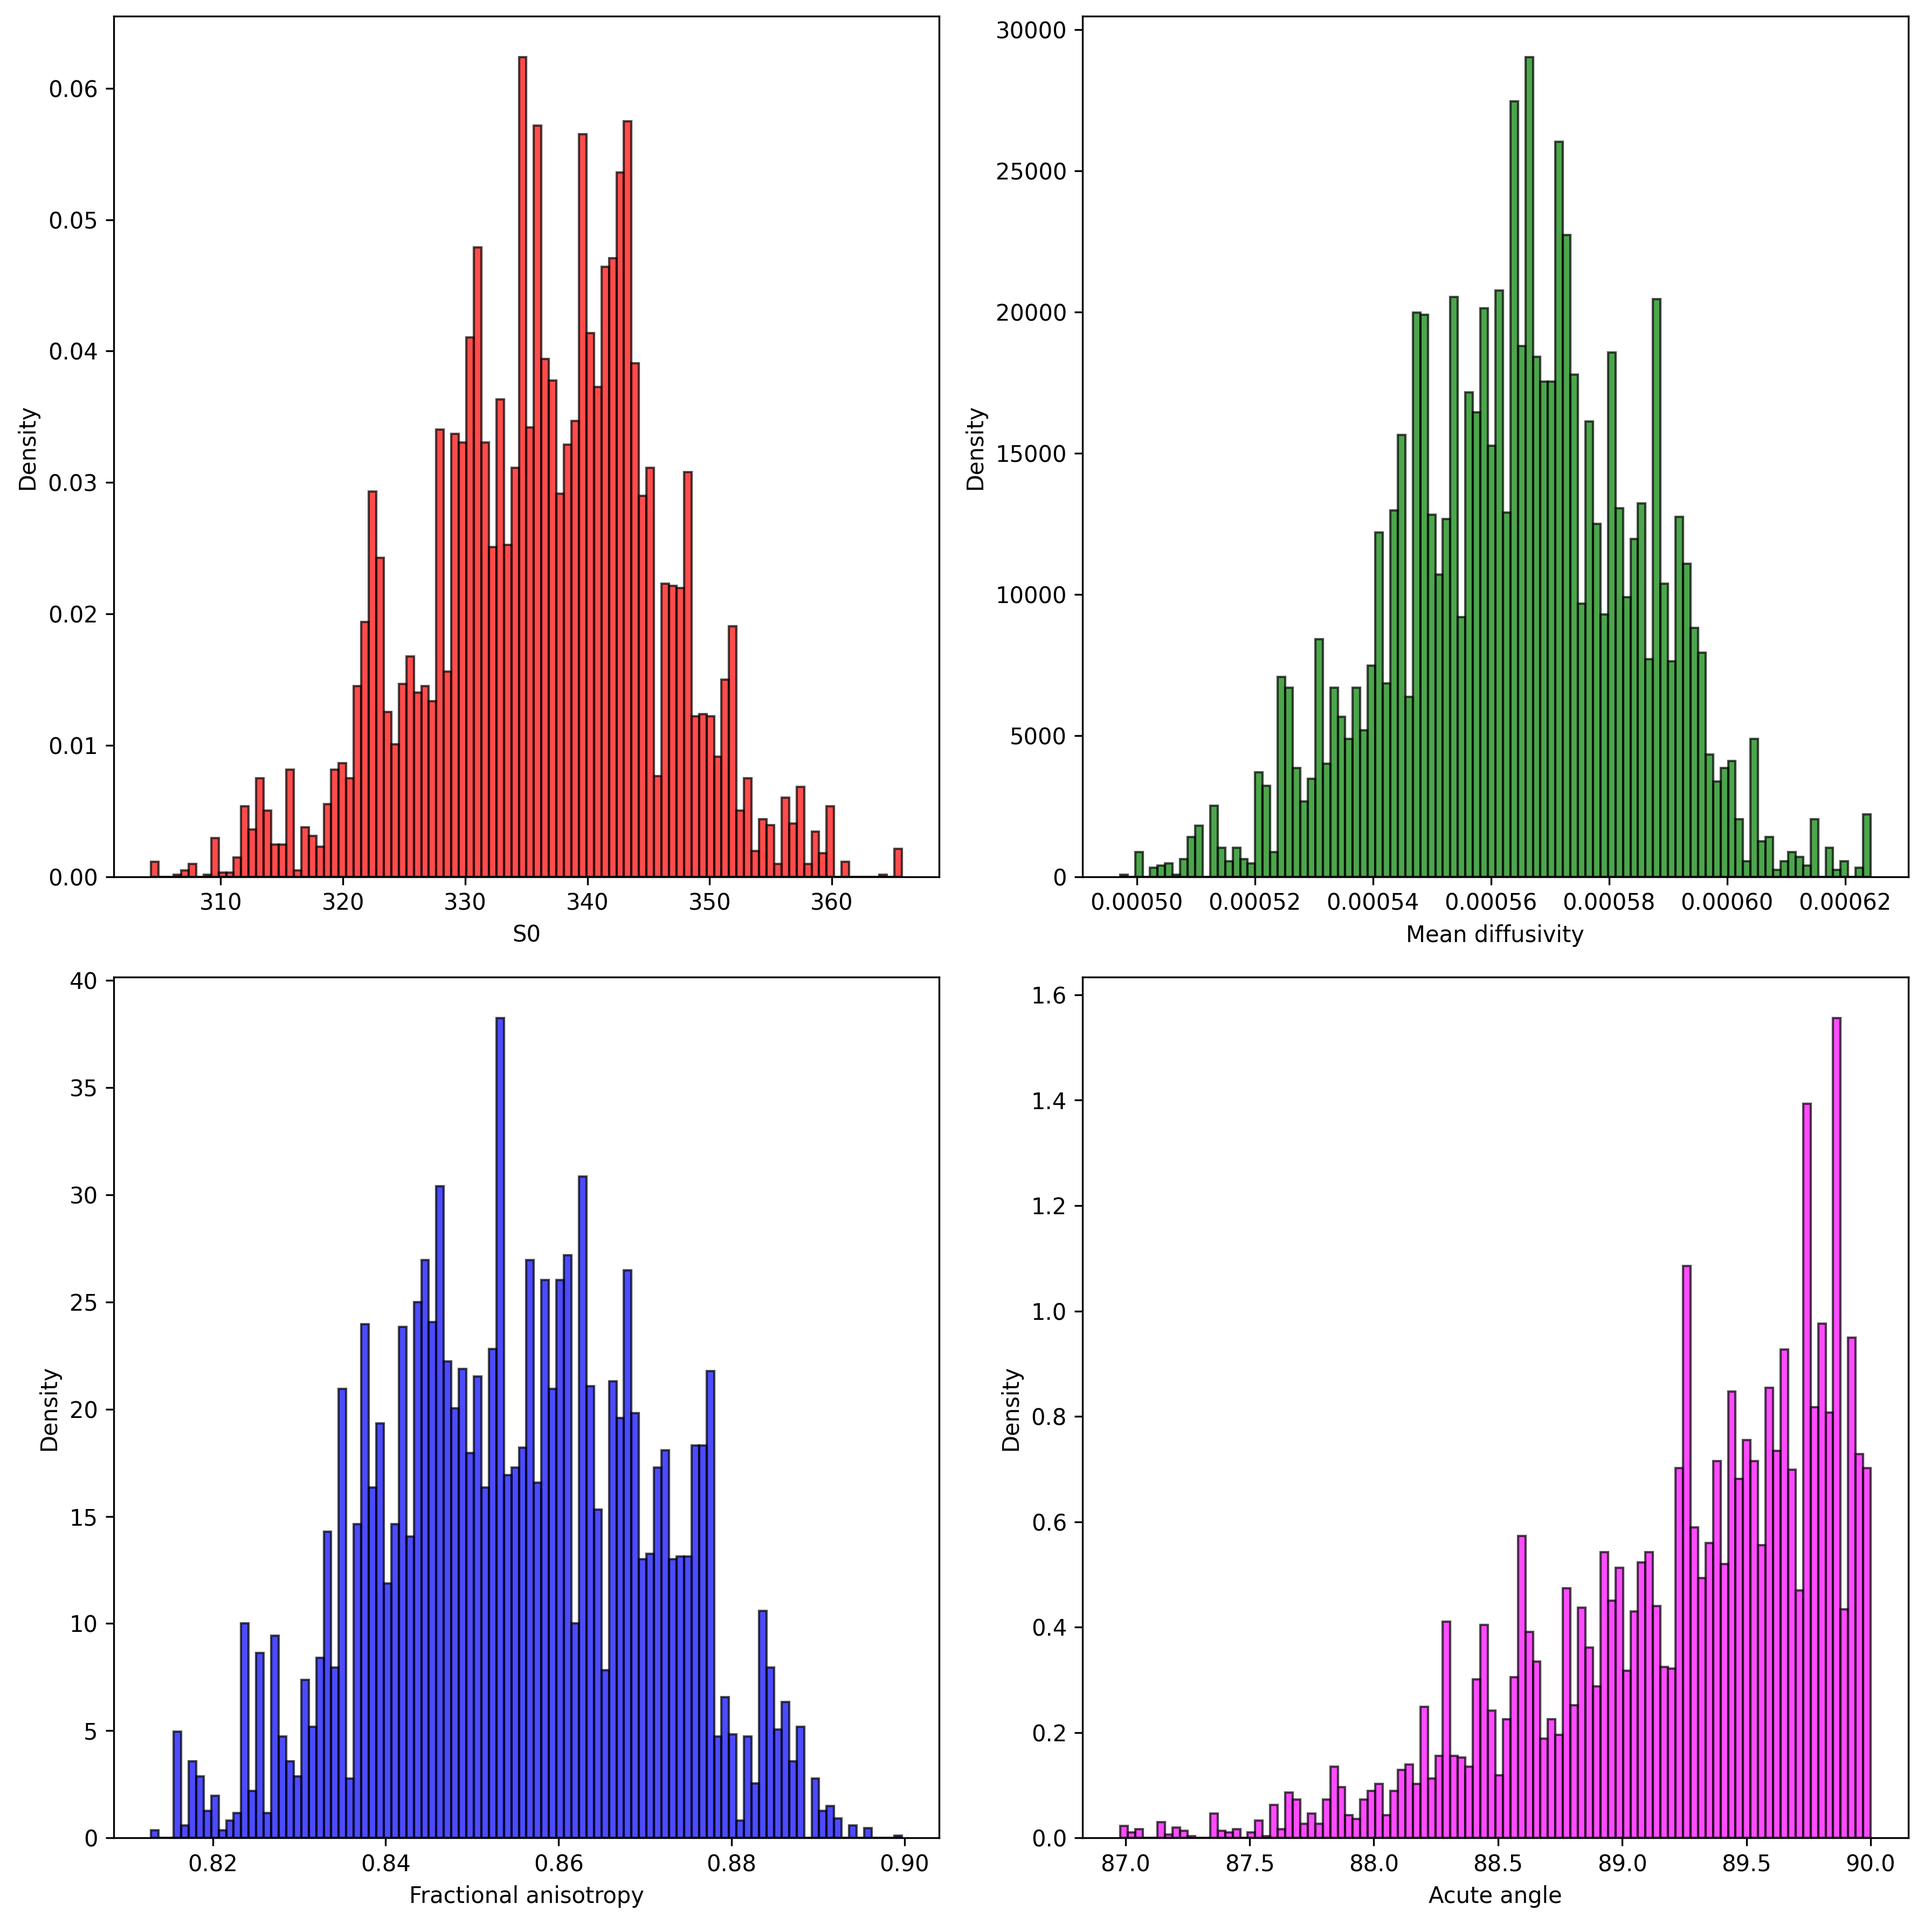
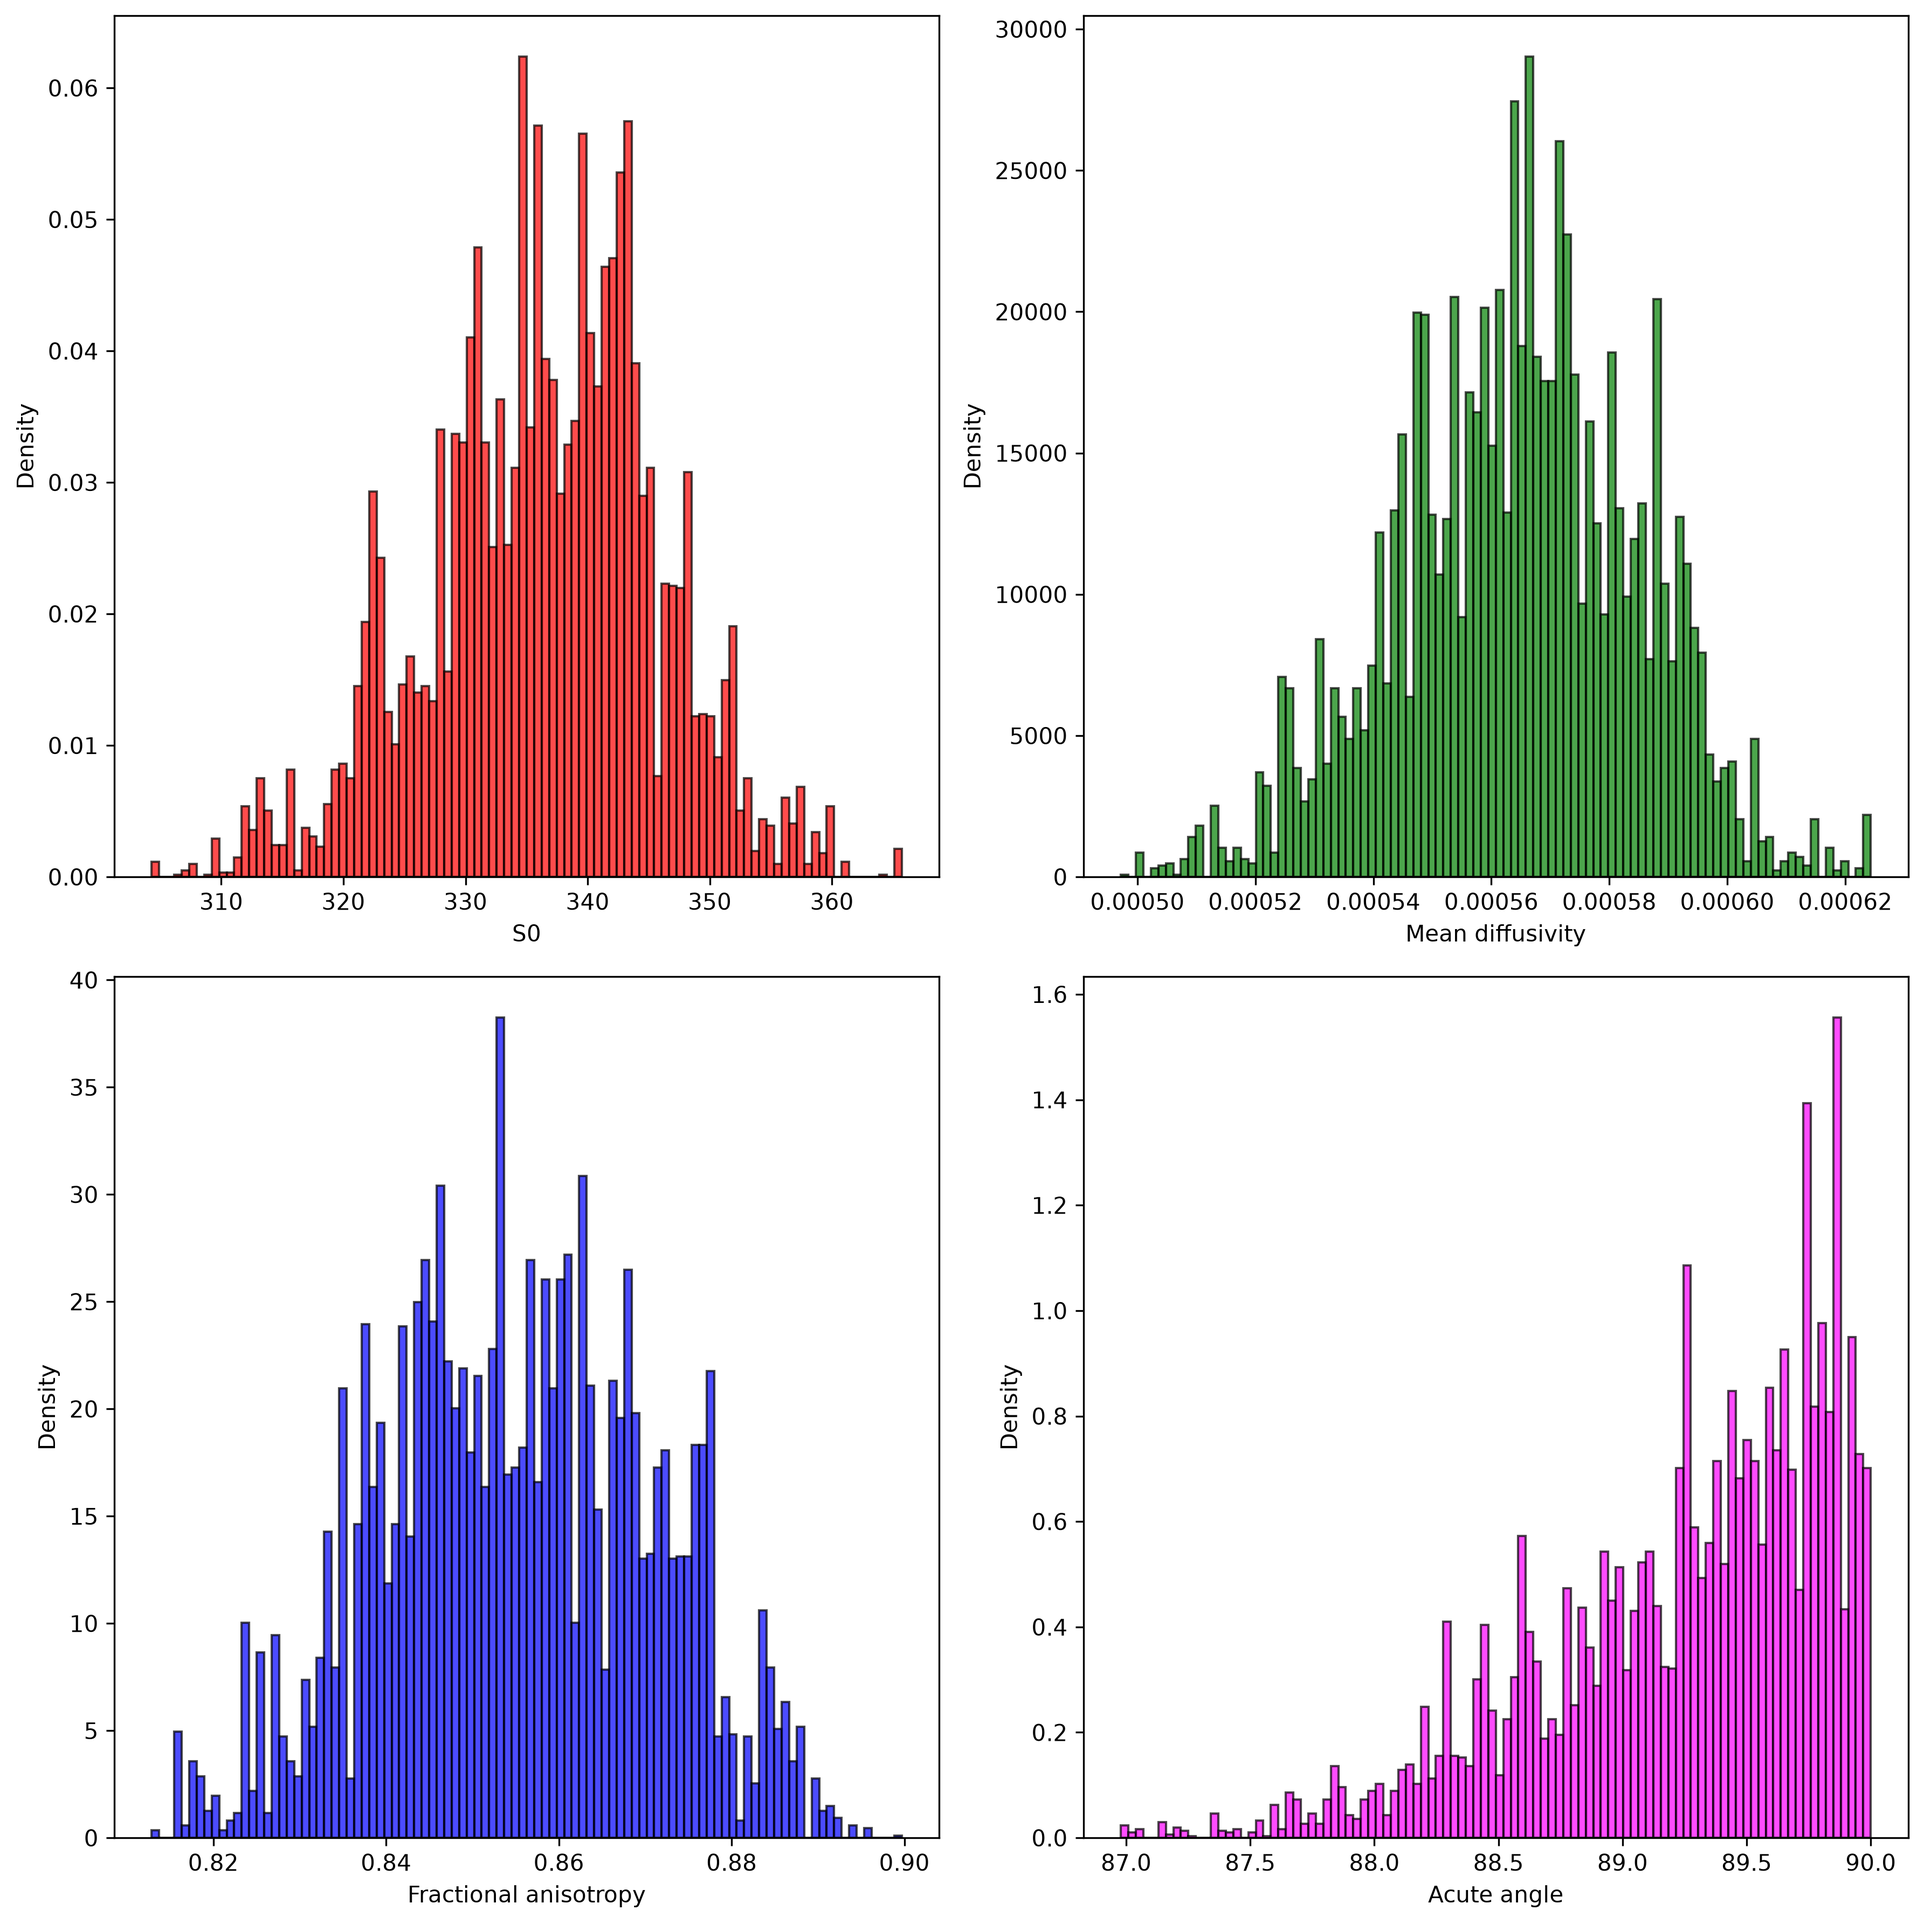
fixed errors on MH code

diff --git a/dmri_project.py b/dmri_project.py
@@ -588,7 +588,7 @@ def metropolis_hastings(n_samples, point_estimate, prior, likelihood, step_S0, s
     evals = np.array(evals, dtype=float)
     V = np.array(V, dtype=float)
 
-    current_log_posterior = float(log_posterior(S0, evals, V))
+    current_log_posterior = log_posterior(S0, evals, V)
 
     # 2. Allocate arrays for the samples.
     S0_samples = np.empty(n_samples)
@@ -605,7 +605,7 @@ def metropolis_hastings(n_samples, point_estimate, prior, likelihood, step_S0, s
             new_V = rotation @ V
 
             #score the proposed state;
-            proposed_log_posterior = float(log_posterior(new_S0, new_evals, new_V))
+            proposed_log_posterior = log_posterior(new_S0, new_evals, new_V)
 
             #accept or reject the whole state;
             log_a = proposed_log_posterior - current_log_posterior
